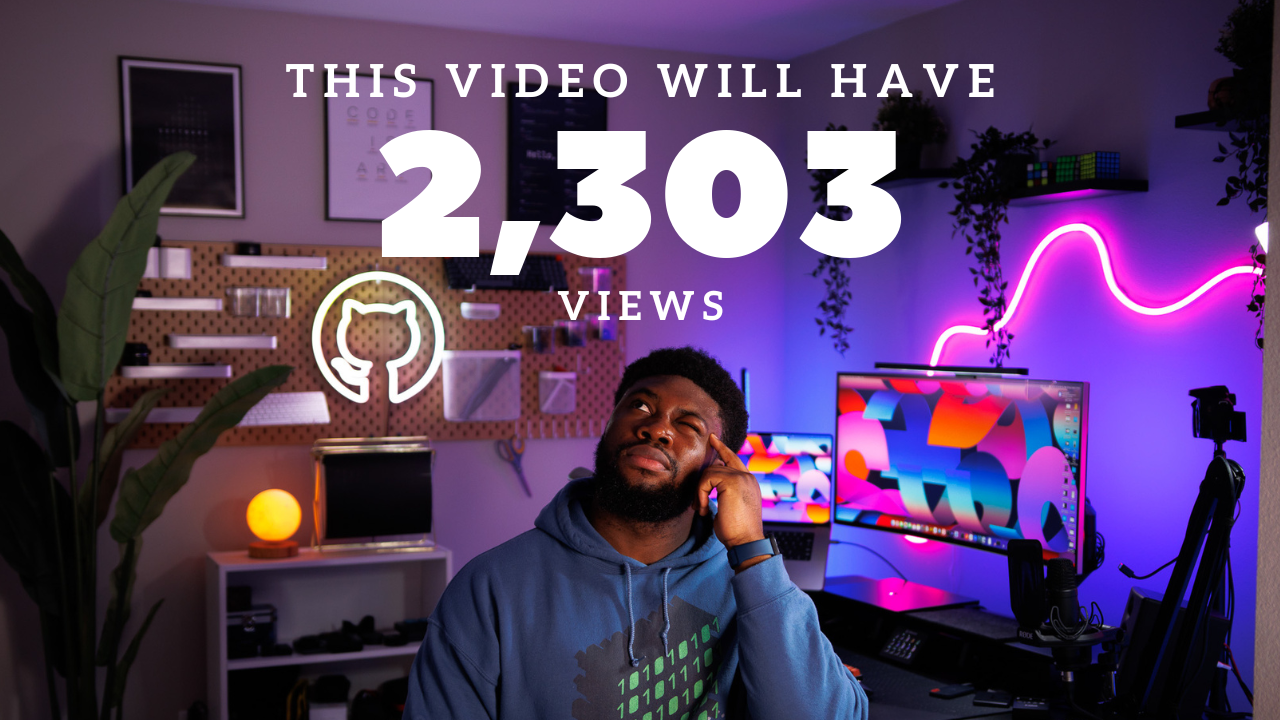
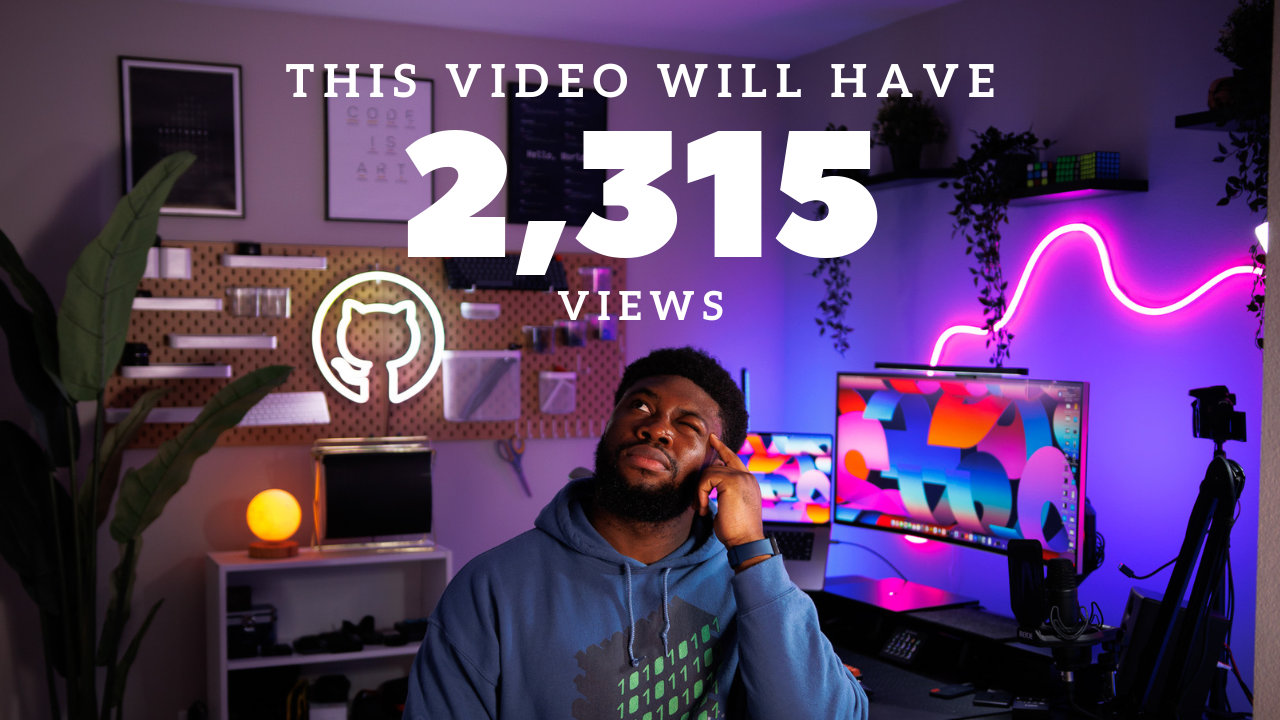
WIP

Changed region(s): [[0.2812, 0.1833, 0.7188, 0.3972]]

diff --git a/app.py b/app.py
@@ -2,6 +2,7 @@
 # Description - This file contains the main application code for the Flask app
 
 import flask
+from flask import send_file
 import requests
 from googleapiclient.http import MediaFileUpload
 import urllib.parse as p
@@ -20,12 +21,21 @@ CLIENT_SECRETS_FILE = "credentials.json"
 SCOPES = ['https://www.googleapis.com/auth/youtube.force-ssl']
 API_SERVICE_NAME = 'youtube'
 API_VERSION = 'v3'
-
 YOUTUBE_VIDEO_ID = "fLlQ2w1gOEM"
+GENERATED_THUMBNAIL_FILE_NAME = "generated_thumbnail.png"
 
 @app.route('/up')
 def hello():
     return "Hello World! Service is Up and Running!"
+
+@app.route('/currentimage')
+def sendCurrentImage():
+    return send_file(GENERATED_THUMBNAIL_FILE_NAME, mimetype='image/gif')
+
+@app.route('/authenticate')
+def authenticate():
+    youtube = youtube_authenticate();
+    return "Authenticated"
 
 # Gets the video view count from youtube
 def get_video_view_count():
@@ -49,7 +59,7 @@ def generate_new_thumbnail(no_of_views):
     image_editable = ImageDraw.Draw(thumbnail_template) # Make the image editable
     _, _, textbox_width, textbox_height = image_editable.textbbox((0, 0), views_count_string, font=title_font)
     image_editable.text(((image_width-textbox_width)/2, 75), views_count_string, (255, 255, 255), font=title_font)# Draw the text
-    thumbnail_template.save("generated_thumbnail.png") # Save the image
+    thumbnail_template.save(GENERATED_THUMBNAIL_FILE_NAME) # Save the image
     print('Thumbnail generated successfully')
 
 # Get Video Description from a text file
@@ -82,7 +92,7 @@ def update_view_count_and_thumbnail():
 
   # thumbnail_update_request = youtube.thumbnails().set(
   #   videoId=YOUTUBE_VIDEO_ID,
-  #   media_body=MediaFileUpload("generated_thumbnail.png")
+  #   media_body=MediaFileUpload(GENERATED_THUMBNAIL_FILE_NAME)
   # )
     
   # thumbnail_update_response = thumbnail_update_request.execute()
@@ -117,9 +127,9 @@ def youtube_authenticate():
         if creds and creds.expired and creds.refresh_token:
             creds.refresh(Request())
         else:
-            raise Exception("Renew Credentials")
-            # flow = InstalledAppFlow.from_client_secrets_file(client_secrets_file, SCOPES)
-            # creds = flow.run_local_server(port=0)
+            # raise Exception("Renew Credentials")
+            flow = InstalledAppFlow.from_client_secrets_file(client_secrets_file, SCOPES)
+            creds = flow.run_local_server(port=0)
         # save the credentials for the next run
         with open("token.pickle", "wb") as token:
             pickle.dump(creds, token)
@@ -129,7 +139,7 @@ def youtube_authenticate():
 
 
 scheduler = BackgroundScheduler(daemon=True)
-scheduler.add_job(update_view_count_and_thumbnail,'interval',minutes=60)
+scheduler.add_job(update_view_count_and_thumbnail,'interval',minutes=30)
 # scheduler.add_job(update_view_count_and_thumbnail,'interval',seconds=10)
 scheduler.start()
 
